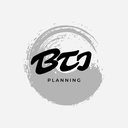
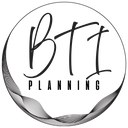
Icône : découpe autour du calendrier (fond transparent) + cache-busting
- Nouvel ICON Agenda (1).png source. Fond gris uniforme (~244,243,243)
  détecté et rendu transparent au pixel près via Pillow ; crop autour de
  la zone opaque avec pad, puis regénération des variantes 32/48/64/128/
  180/192/256/512 px.
- Les <link rel='icon'> et l'avatar sidebar ont désormais un suffixe ?v=3
  → force le navigateur à re-fetcher, contourne le cache favicon
  particulièrement collant (Ctrl+F5 ne suffit pas d'habitude).
- Ajout de la taille 192px (Android) et 180px (Apple touch icon).

Impact : la nouvelle icône apparaît dès le prochain load, sans besoin de
vider manuellement le cache navigateur.

diff --git a/client/index.html b/client/index.html
@@ -9,10 +9,11 @@
   <link rel="preconnect" href="https://fonts.googleapis.com" />
   <link rel="preconnect" href="https://fonts.gstatic.com" crossorigin />
   <link href="https://fonts.googleapis.com/css2?family=Inter:wght@300;400;500;600;700&family=Inter+Tight:wght@300;400;500;600;700&display=swap" rel="stylesheet" />
-  <link rel="icon" type="image/png" sizes="32x32" href="/assets/icon-32.png" />
-  <link rel="icon" type="image/png" sizes="64x64" href="/assets/icon-64.png" />
-  <link rel="icon" type="image/png" sizes="128x128" href="/assets/icon-128.png" />
-  <link rel="apple-touch-icon" href="/assets/icon-256.png" />
+  <link rel="icon" type="image/png" sizes="32x32" href="/assets/icon-32.png?v=3" />
+  <link rel="icon" type="image/png" sizes="64x64" href="/assets/icon-64.png?v=3" />
+  <link rel="icon" type="image/png" sizes="128x128" href="/assets/icon-128.png?v=3" />
+  <link rel="icon" type="image/png" sizes="192x192" href="/assets/icon-192.png?v=3" />
+  <link rel="apple-touch-icon" href="/assets/icon-180.png?v=3" />
 </head>
 <body>
   <div class="ambient"></div>
@@ -27,7 +28,7 @@
       </header>
 
       <div class="user-card">
-        <div class="user-avatar"><img src="/assets/icon-128.png" alt="" /></div>
+        <div class="user-avatar"><img src="/assets/icon-128.png?v=3" alt="" /></div>
         <div class="user-meta">
           <span class="user-name">Planning M2 BTI</span>
           <span class="user-mail" id="source-file" title="Fichier Excel synchronisé depuis AMU box">source : planning.xlsx</span>

diff --git a/client/comparateur.html b/client/comparateur.html
@@ -10,10 +10,11 @@
   <link rel="preconnect" href="https://fonts.googleapis.com" />
   <link rel="preconnect" href="https://fonts.gstatic.com" crossorigin />
   <link href="https://fonts.googleapis.com/css2?family=Inter:wght@300;400;500;600;700&family=Inter+Tight:wght@300;400;500;600;700&display=swap" rel="stylesheet" />
-  <link rel="icon" type="image/png" sizes="32x32" href="/assets/icon-32.png" />
-  <link rel="icon" type="image/png" sizes="64x64" href="/assets/icon-64.png" />
-  <link rel="icon" type="image/png" sizes="128x128" href="/assets/icon-128.png" />
-  <link rel="apple-touch-icon" href="/assets/icon-256.png" />
+  <link rel="icon" type="image/png" sizes="32x32" href="/assets/icon-32.png?v=3" />
+  <link rel="icon" type="image/png" sizes="64x64" href="/assets/icon-64.png?v=3" />
+  <link rel="icon" type="image/png" sizes="128x128" href="/assets/icon-128.png?v=3" />
+  <link rel="icon" type="image/png" sizes="192x192" href="/assets/icon-192.png?v=3" />
+  <link rel="apple-touch-icon" href="/assets/icon-180.png?v=3" />
 </head>
 <body>
   <div class="ambient"></div>
@@ -25,7 +26,7 @@
       </header>
 
       <div class="user-card">
-        <div class="user-avatar"><img src="/assets/icon-128.png" alt="" /></div>
+        <div class="user-avatar"><img src="/assets/icon-128.png?v=3" alt="" /></div>
         <div class="user-meta">
           <span class="user-name">Comparateur</span>
           <span class="user-mail">Excel ↔ ADE</span>

diff --git a/client/admin/index.html b/client/admin/index.html
@@ -7,10 +7,11 @@
   <title>Enseignant · Planning M2 BTI</title>
   <link rel="stylesheet" href="/css/app.css" />
   <link rel="stylesheet" href="/constructeur/admin.css" />
-  <link rel="icon" type="image/png" sizes="32x32" href="/assets/icon-32.png" />
-  <link rel="icon" type="image/png" sizes="64x64" href="/assets/icon-64.png" />
-  <link rel="icon" type="image/png" sizes="128x128" href="/assets/icon-128.png" />
-  <link rel="apple-touch-icon" href="/assets/icon-256.png" />
+  <link rel="icon" type="image/png" sizes="32x32" href="/assets/icon-32.png?v=3" />
+  <link rel="icon" type="image/png" sizes="64x64" href="/assets/icon-64.png?v=3" />
+  <link rel="icon" type="image/png" sizes="128x128" href="/assets/icon-128.png?v=3" />
+  <link rel="icon" type="image/png" sizes="192x192" href="/assets/icon-192.png?v=3" />
+  <link rel="apple-touch-icon" href="/assets/icon-180.png?v=3" />
 </head>
 <body>
   <div id="login-view" class="login-view">
